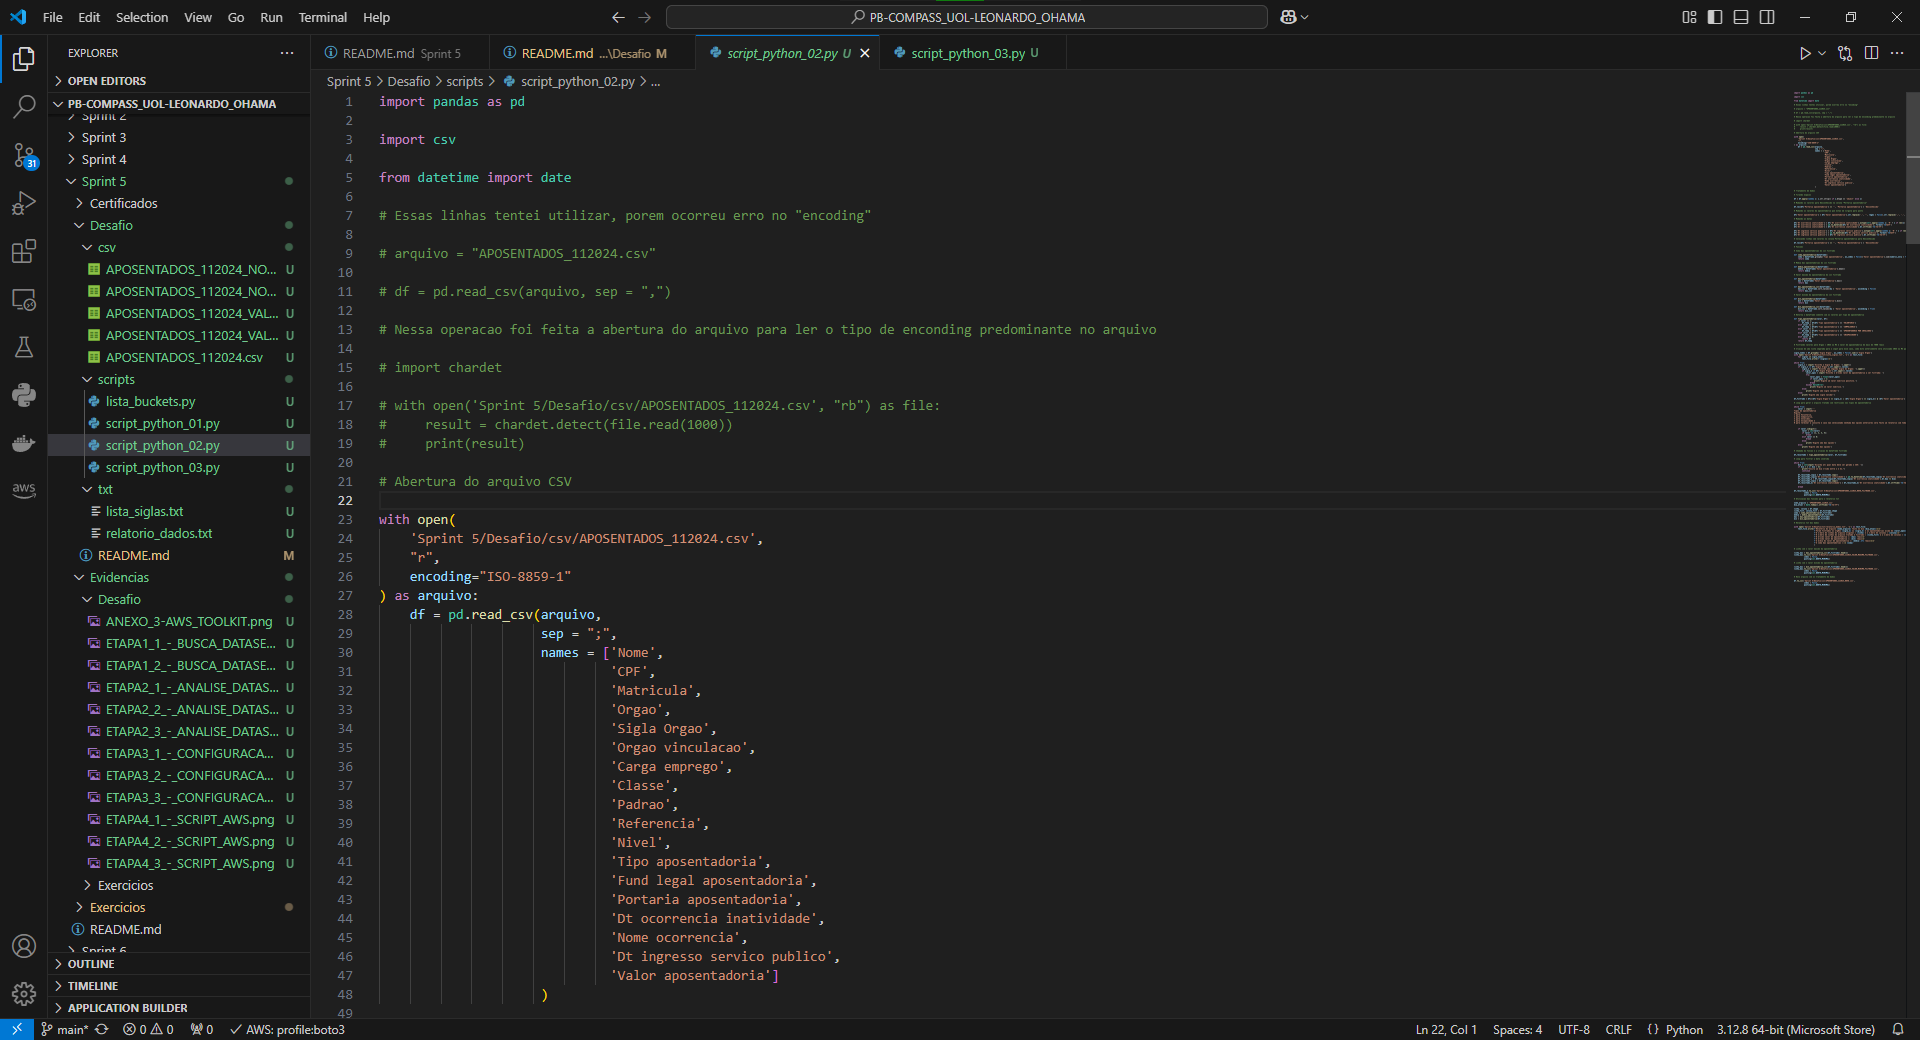
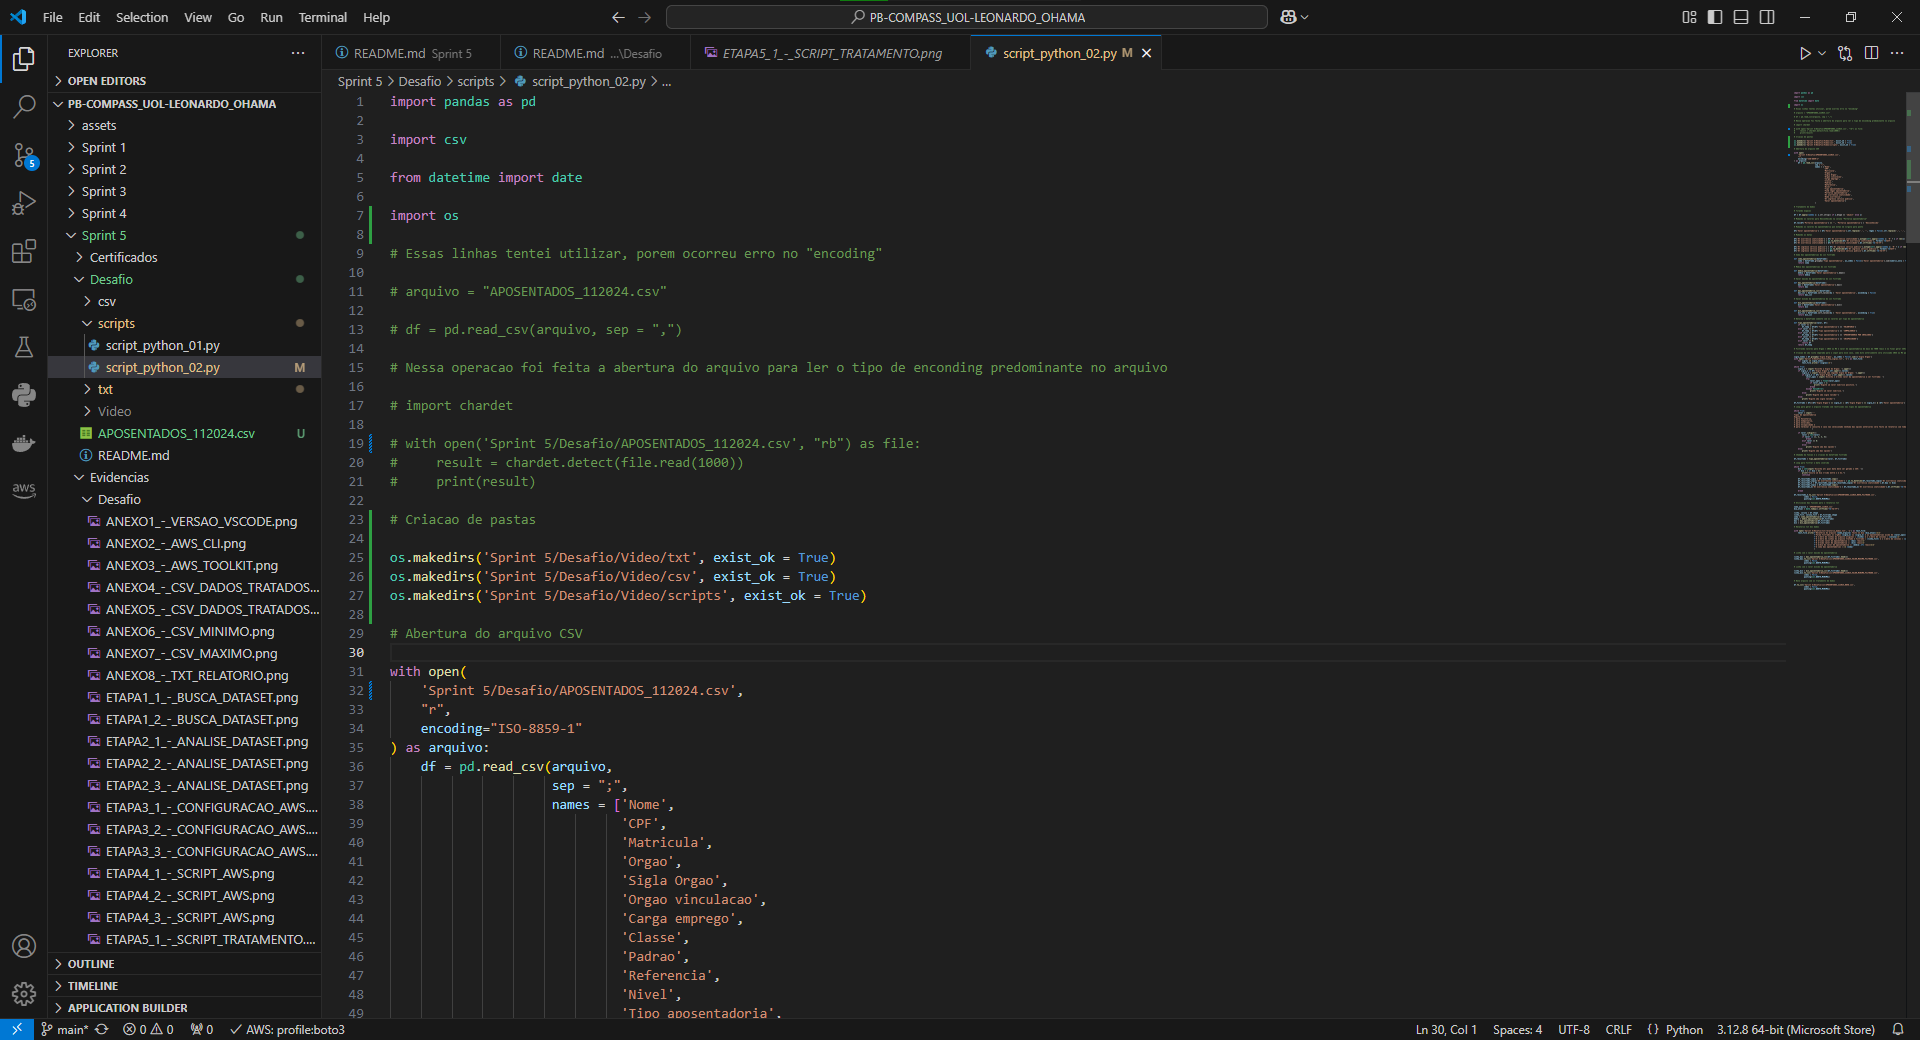
Atualizacao Sprint 05

diff --git a/Sprint 5/Desafio/scripts/script_python_02.py b/Sprint 5/Desafio/scripts/script_python_02.py
@@ -4,6 +4,8 @@ import csv
 
 from datetime import date
 
+import os
+
 # Essas linhas tentei utilizar, porem ocorreu erro no "encoding"
 
 # arquivo = "APOSENTADOS_112024.csv"
@@ -14,14 +16,20 @@ from datetime import date
 
 # import chardet
 
-# with open('Sprint 5/Desafio/csv/APOSENTADOS_112024.csv', "rb") as file:
+# with open('Sprint 5/Desafio/APOSENTADOS_112024.csv', "rb") as file:
 #     result = chardet.detect(file.read(1000))
 #     print(result)
+
+# Criacao de pastas
+
+os.makedirs('Sprint 5/Desafio/Video/txt', exist_ok = True)
+os.makedirs('Sprint 5/Desafio/Video/csv', exist_ok = True)
+os.makedirs('Sprint 5/Desafio/Video/scripts', exist_ok = True)
 
 # Abertura do arquivo CSV
 
 with open(
-    'Sprint 5/Desafio/csv/APOSENTADOS_112024.csv', 
+    'Sprint 5/Desafio/APOSENTADOS_112024.csv', 
     "r", 
     encoding="ISO-8859-1"
 ) as arquivo:

diff --git a/Sprint 5/Desafio/README.md b/Sprint 5/Desafio/README.md
@@ -4,7 +4,7 @@
 
 ## Arquivos
 
-1. [CSV Original](csv/APOSENTADOS_112024.csv)
+1. [CSV Original](APOSENTADOS_112024.csv)
 
 2. [CSV apenas Tratado](csv/APOSENTADOS_112024_NOVO.csv)
 
@@ -144,7 +144,7 @@ Explicação do desenvolvimento de programas em Python, o primeiro script tem qu
 
     Depois disso, foi retirado todos espaços em branco nas extremidades das linhas com o auxílio da função lambda e o strip() para as linhas que precisam ser feitas esse tratamento, agora para a coluna que estava em sua maior parte em "branco", que é da coluna "Portaria aposentadoria" foi colocado nesses valores em "branco" o valor "Desconhecido". Na linha de comando seguinte é tratado os valores referente a coluna "Valor aposentadoria" que primeiro tinha ponto para indicar valores a cada 1000 e os centavos que estavam representados pela vírgula e para isso foram feitas a utilização de tranformação para string (.str) e o replace para retirar esses valores de . e de vírgula, sendo o último para a substituição com o ponto e no final transformando os valores da coluna em float. E finalizando a etapa de tratamento é feito a mudança nas datas que estavam em um formato não adequado e para isso, primeiro é verificado se as datas estão no formato DDMMAAAA ou se estão no formato incorreto que seria o DMMAAAA, como os valores que representam esse formato incorreto é devido os programas ignorarem o zero a esquerda por entenderem que é um número inteiro, assim foi utilizado a função lambda para verificar cada linha das colunas: "Dt ocorrencia inatividade" e "Dt ingresso servico publico" e nas linhas de comando seguintes é transformado os valores da coluna em datetime e com o formato DD-MM-AAAA.
 
-    ![Evidência](../Evidencias/Desafio/ETAPA5_1_-_SCRIPT_TRATAMENTO.png)
+    ![Evidência](../Evidencias/Desafio/ETAPA5_2_-_SCRIPT_TRATAMENTO.png)
 
 [**Voltar ao Sumário**](#sumário)
 
